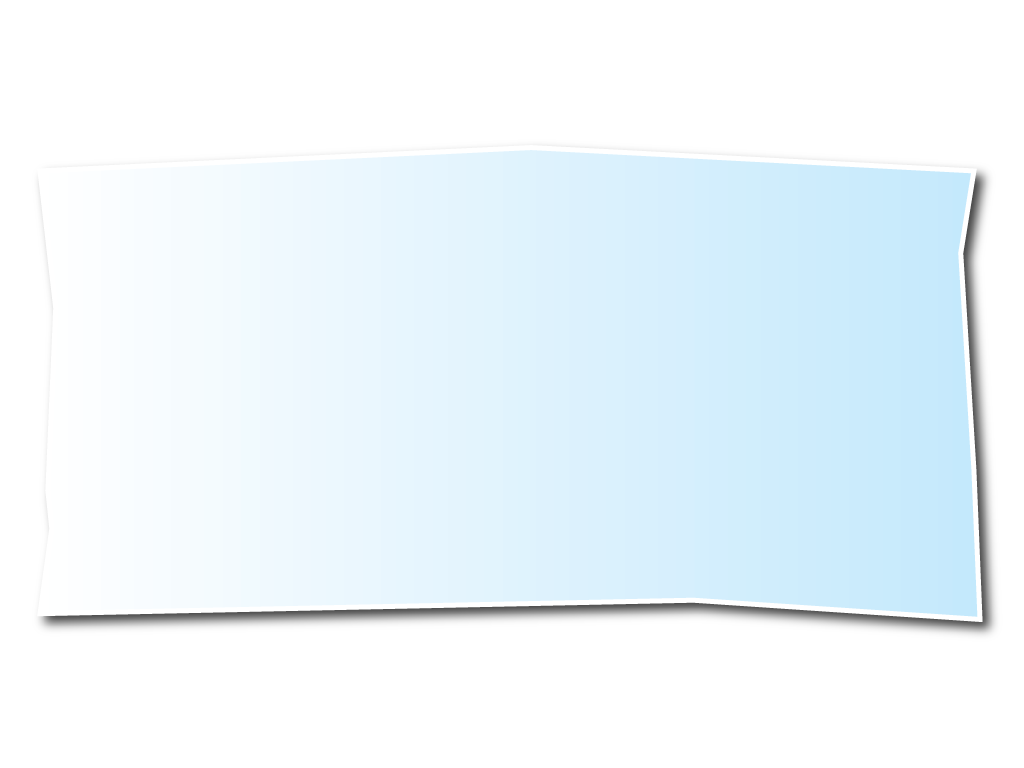
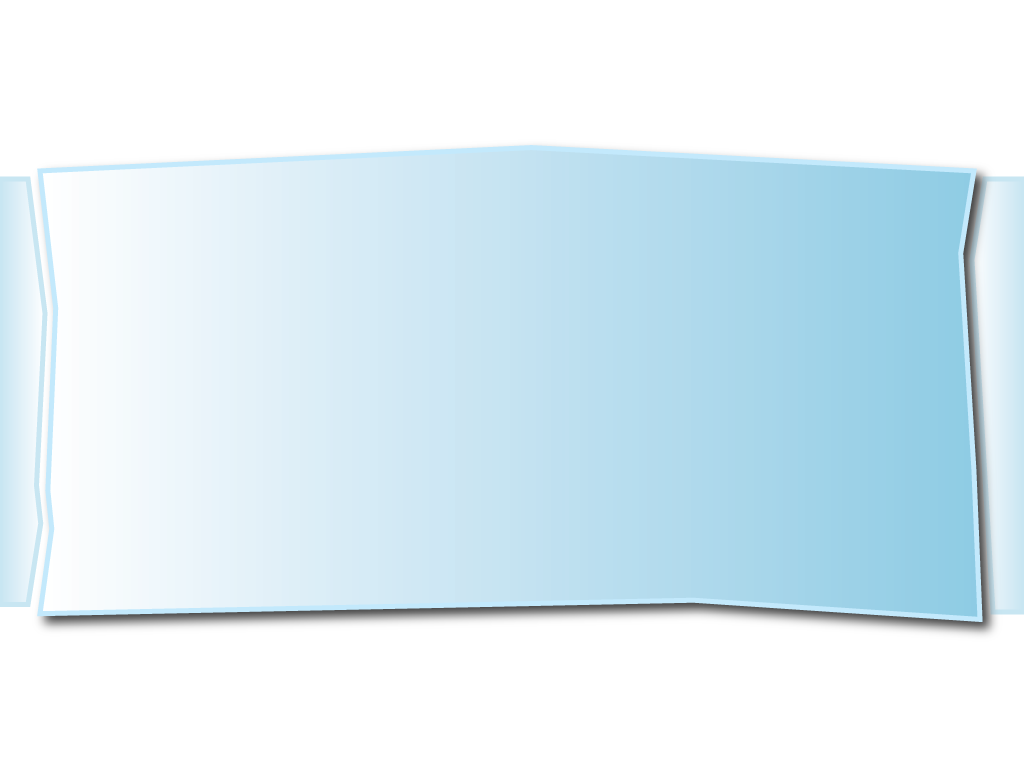
floating sub title progression, tweaks; container hide/enable; icediv tweaks

diff --git a/belugapad/BlockFloating.m b/belugapad/BlockFloating.m
@@ -141,7 +141,7 @@ eachShape(void *ptr, void* unused)
     
     problemCompleteLabel=[CCLabelTTF labelWithString:@"" fontName:TITLE_FONT fontSize:PROBLEM_DESC_FONT_SIZE];
     [problemCompleteLabel setColor:ccc3(0, 255, 0)];
-    [problemCompleteLabel setPosition:ccp(cx, cy+cy*0.75)];
+    [problemCompleteLabel setPosition:ccp(cx, cy*0.25)];
     [problemCompleteLabel setVisible:NO];
     [self addChild:problemCompleteLabel];
     
@@ -400,6 +400,13 @@ eachShape(void *ptr, void* unused)
     [problemDescLabel setColor:ccc3(255, 255, 255)];
     [self addChild:problemDescLabel];
     
+    //problem sub title
+    NSString *subT=[pdef objectForKey:PROBLEM_SUBTITLE];
+    if(!subT) subT=@"";
+    problemSubLabel=[CCLabelTTF labelWithString:subT fontName:PROBLEM_DESC_FONT fontSize:PROBLEM_SUBTITLE_FONT_SIZE];
+    [problemSubLabel setPosition:ccp(cx, cy+(0.75*cy))];
+    [self addChild:problemSubLabel];
+    
     //create problem file name
     CCLabelBMFont *flabel=[CCLabelBMFont labelWithString:[problemFiles objectAtIndex:currentProblemIndex] fntFile:@"visgrad1.fnt"];
     [flabel setPosition:ccp(135, 755)];
@@ -573,6 +580,10 @@ eachShape(void *ptr, void* unused)
             
             [self showGhostOf:[tdef objectForKey:GHOST_OBJECT] to:[tdef objectForKey:GHOST_DESTINATION]];
             
+            //set subtitle if there
+            NSString *subt=[tdef objectForKey:PROBLEM_SUBTITLE];
+            if(subt) [problemSubLabel setString:subt];
+            
             timeToNextTutorial=TUTORIAL_TIME_REPEAT;
         }
     }
@@ -618,10 +629,23 @@ eachShape(void *ptr, void* unused)
             //immediately remove any ghosts
             [self clearGhost];
             
+            //clear problem subtitle
+            [problemSubLabel setString:@""];
+            
             //spawn any new objects
             NSDictionary *objs=[tdef objectForKey:INIT_OBJECTS];
             if(objs) [self spawnObjects:objs];
             
+            //enable any containers
+            NSArray *enablec=[tdef objectForKey:ENABLE_CONTAINERS];
+            if(enablec)
+            {
+                for (NSString *cont in enablec) {
+                    DWGameObject *contgo=[gameWorld gameObjectWithKey:TAG andValue:cont];
+                    [[contgo store] removeObjectForKey:HIDDEN];
+                    [contgo handleMessage:kDWenable andPayload:nil withLogLevel:0];
+                }
+            }
             
             //set tutorial timer to start -- i.e. like first tutorial (not reapeat timer)
             timeToNextTutorial=TUTORIAL_TIME_START;

diff --git a/belugapad/IceDiv.m b/belugapad/IceDiv.m
@@ -174,8 +174,6 @@
     CCSequence *seq=[CCSequence actions:s1, s2, nil];
     [crack runAction:seq];
     
-    [[SimpleAudioEngine sharedEngine] playEffect:@"icediv-crack.wav"];
-    
     
     //force set crack opacity, so we can up it if it strikes a fraction
     [crack setOpacity:50];
@@ -191,6 +189,8 @@
         [crack runAction:[CCMoveTo actionWithDuration:0.1f position:ccp(0.25f*xSpan+xBase, cy)]];
         
         [self showFractionFoundLabel:@"1/4"];
+        
+        [[SimpleAudioEngine sharedEngine] playEffect:@"icediv-crack.wav"];
     }
     
     if(fabsf((xMean-xBase) - 0.5*xSpan) < SWIPE_FRACTION_PROX)
@@ -199,6 +199,8 @@
         [crack runAction:[CCMoveTo actionWithDuration:0.1f position:ccp(0.5f*xSpan+xBase, cy)]];
         
         [self showFractionFoundLabel:@"1/2"];
+        
+        [[SimpleAudioEngine sharedEngine] playEffect:@"icediv-crack.wav"];
     }
     
     if(fabsf((xMean-xBase) - 0.75*xSpan) < SWIPE_FRACTION_PROX)
@@ -207,6 +209,8 @@
         [crack runAction:[CCMoveTo actionWithDuration:0.1f position:ccp(0.75f*xSpan+xBase, cy)]];
         
         [self showFractionFoundLabel:@"3/4"];
+    
+        [[SimpleAudioEngine sharedEngine] playEffect:@"icediv-crack.wav"];
     }
     
 }

diff --git a/belugapad/global.h b/belugapad/global.h
@@ -47,6 +47,7 @@
 
 #define PROBLEM_DESC_FONT @"Helvetica"
 #define PROBLEM_DESC_FONT_SIZE 32
+#define PROBLEM_SUBTITLE_FONT_SIZE 20
 
 #define MY_SPRITE @"MY_SPRITE"
 
@@ -54,8 +55,10 @@
 
 // problem definition files
 #define PROBLEM_DESCRIPTION @"PROBLEM_DESCRIPTION"
+#define PROBLEM_SUBTITLE @"PROBLEM_SUBTITLE"
 #define INIT_OBJECTS @"INIT_OBJECTS"
 #define TAG @"TAG"
+#define HIDDEN @"HIDDEN"
 #define DIMENSION_COLS @"DIMENSION_COLS"
 #define DIMENSION_ROWS @"DIMENSION_ROWS"
 #define INIT_CONTAINERS @"INIT_CONTAINERS"
@@ -74,6 +77,7 @@
 #define TUTORIALS @"TUTORIALS"
 #define GHOST_OBJECT @"GHOST_OBJECT"
 #define GHOST_DESTINATION @"GHOST_DESTINATION"
+#define ENABLE_CONTAINERS @"ENABLE_CONTAINERS"
 
 //clause types
 #define SIZE_EQUAL_TO @"SIZE_EQUAL_TO"

diff --git a/belugapad/BDropTarget.m b/belugapad/BDropTarget.m
@@ -23,9 +23,9 @@
 {
     if(messageType==kDWareYouADropTarget)
     {
-//        //only check if I'm not currently mounting something else
-//        if([[gameObject store] objectForKey:MOUNTED_OBJECT]==nil)
-//        {
+        BOOL inactive=[[[gameObject store] objectForKey:HIDDEN] boolValue];
+        if(inactive==NO)
+        {
             //get current loc
             float x=[[[gameObject store] objectForKey:POS_X] floatValue];
             float y=[[[gameObject store] objectForKey:POS_Y] floatValue];   
@@ -44,7 +44,7 @@
                 
 
             }
-//        }
+        }
 
     }
 }

diff --git a/belugapad/BContainerRender.m b/belugapad/BContainerRender.m
@@ -28,6 +28,11 @@
     {
         [self setSprite];
     }
+    
+    if(messageType==kDWenable)
+    {
+        [mySprite setVisible:YES];
+    }
 }
 
 -(void)setSprite
@@ -39,6 +44,12 @@
     float y=[GOS_GET(POS_Y) floatValue];
     
     [mySprite setPosition:ccp(x, y)];
+    
+    BOOL inactive=[[[gameObject store] objectForKey:HIDDEN] boolValue];
+    if(inactive==YES)
+    {
+        [mySprite setVisible:NO];
+    }
     
     [[gameWorld GameScene] addChild:mySprite z:0];
     

diff --git a/belugapad/BlockFloating.h b/belugapad/BlockFloating.h
@@ -23,6 +23,7 @@
     cpSpace *space;
     
     CCLabelTTF *problemDescLabel;
+    CCLabelTTF *problemSubLabel;
     NSArray *solutionsDef;
     CCLabelTTF *problemCompleteLabel;
     

diff --git a/belugapad/DWModelConstants.h b/belugapad/DWModelConstants.h
@@ -43,6 +43,8 @@ typedef enum {
     kDWsetPhysBody,
     
     kDWpickedUp,
-    kDWputdown
+    kDWputdown,
+    
+    kDWenable
     
 } DWMessageType;
